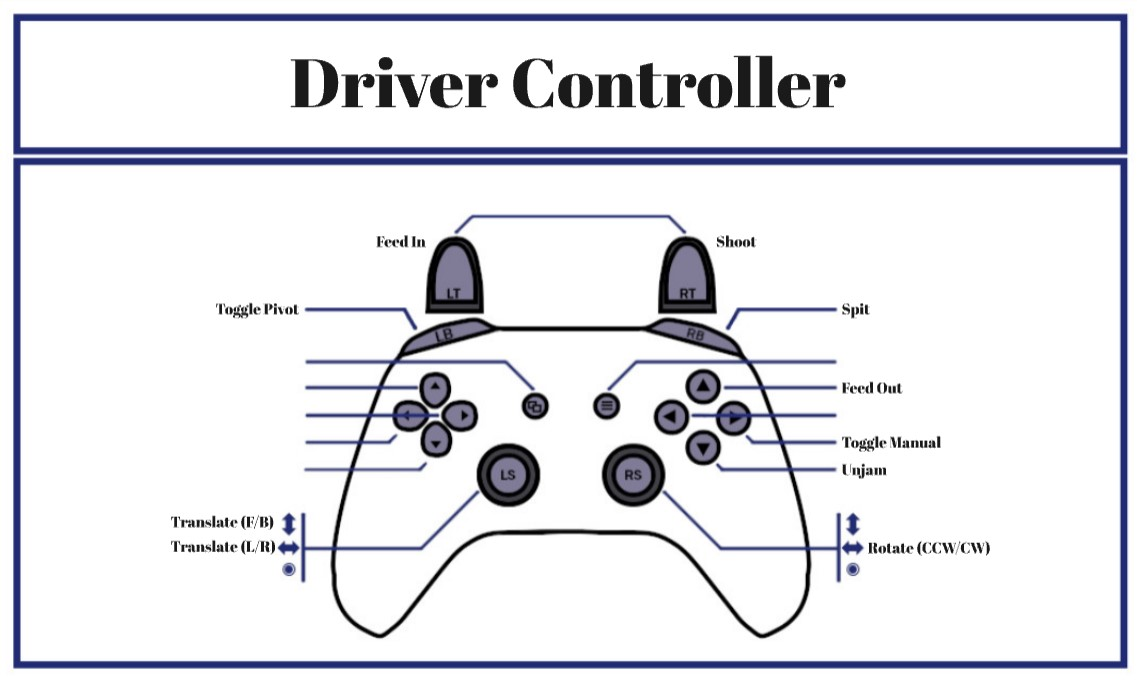
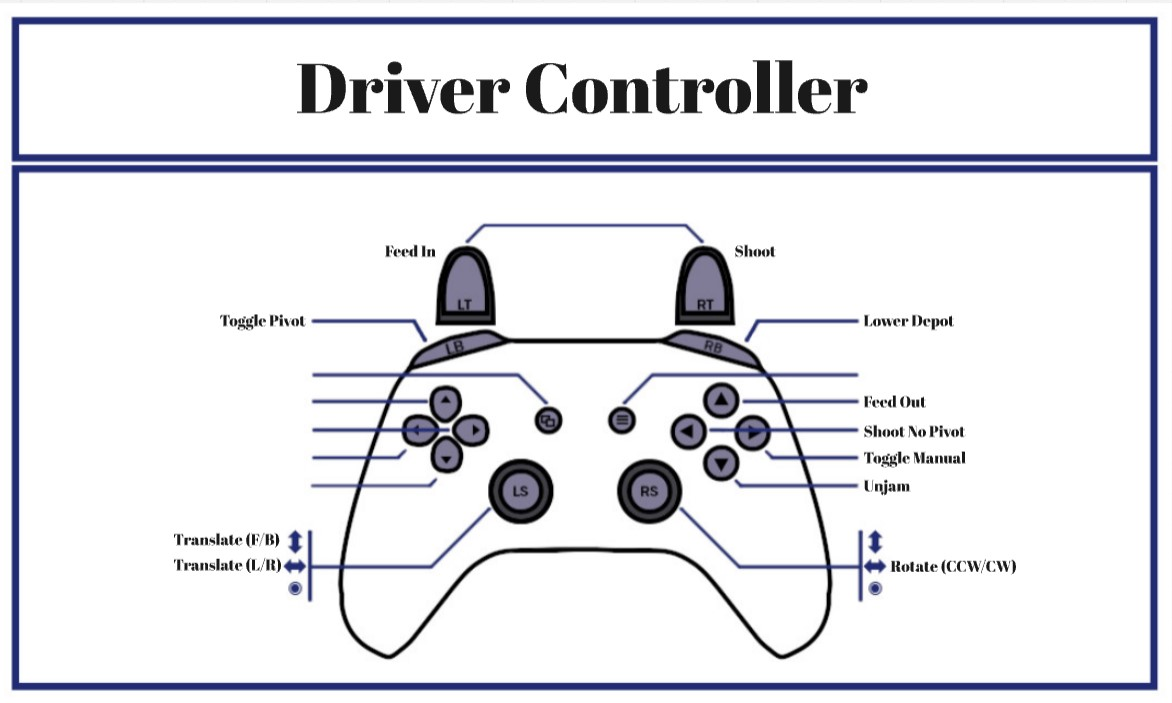
added depot intake pivot lower + shoot no intake pivot

Changed region(s): [[0.0, 0.0, 1.0, 0.9882]]

diff --git a/auto-generator/generator.ts b/auto-generator/generator.ts
@@ -52,11 +52,11 @@ function saveTrajectory(traj: Trajectory) : void {
 function generateTrajectory(traj: Trajectory) : void {
     exec(`${CHOREO_CLI} --chor ${CONFIG} --trajectory ${traj.name}.traj -g`, (error: Error | null, stdout: string, stderr: string) => {
         if (error) {
-            console.error("Choreo Error:", error);
+            console.error("choreo cli:", error);
             return;
         }
 
-        console.log("Choreo Output:");
+        console.log("choreo cli:");
         console.log(stdout);
     });
 }

diff --git a/src/main/java/frc/robot/Robot.java b/src/main/java/frc/robot/Robot.java
@@ -254,6 +254,32 @@ public class Robot extends TimedRobot {
     final InputStream baseVelOmega =
         InputStream.of(_driverController::getRightX).deadband(0.02, 1).negate().signedPow(2);
 
+    final Command shoot =
+        _superstructure.shoot(
+            baseVelX.scale(SwerveConstants.driverTranslationalShootingVelocity.in(MetersPerSecond)),
+            baseVelY.scale(SwerveConstants.driverTranslationalShootingVelocity.in(MetersPerSecond)),
+            true);
+
+    final Command shootManually =
+        _superstructure.shootManually(
+            baseVelX.scale(SwerveConstants.driverTranslationalShootingVelocity.in(MetersPerSecond)),
+            baseVelY.scale(SwerveConstants.driverTranslationalShootingVelocity.in(MetersPerSecond)),
+            baseVelOmega.scale(SwerveConstants.driverAngularVelocity.in(RadiansPerSecond)),
+            true);
+
+    final Command shootNoPivot =
+        _superstructure.shoot(
+            baseVelX.scale(SwerveConstants.driverTranslationalShootingVelocity.in(MetersPerSecond)),
+            baseVelY.scale(SwerveConstants.driverTranslationalShootingVelocity.in(MetersPerSecond)),
+            false);
+
+    final Command shootManuallyNoPivot =
+        _superstructure.shootManually(
+            baseVelX.scale(SwerveConstants.driverTranslationalShootingVelocity.in(MetersPerSecond)),
+            baseVelY.scale(SwerveConstants.driverTranslationalShootingVelocity.in(MetersPerSecond)),
+            baseVelOmega.scale(SwerveConstants.driverAngularVelocity.in(RadiansPerSecond)),
+            false);
+
     _swerve.setDefaultCommand(
         _swerve
             .drive(
@@ -262,20 +288,13 @@ public class Robot extends TimedRobot {
                 baseVelOmega.scale(SwerveConstants.driverAngularVelocity.in(RadiansPerSecond)))
             .beforeStarting(() -> _swerve.isOpenLoop = true));
 
-    final Command shoot =
-        _superstructure.shoot(
-            baseVelX.scale(SwerveConstants.driverTranslationalShootingVelocity.in(MetersPerSecond)),
-            baseVelY.scale(
-                SwerveConstants.driverTranslationalShootingVelocity.in(MetersPerSecond)));
-
-    final Command shootManually =
-        _superstructure.shootManually(
-            baseVelX.scale(SwerveConstants.driverTranslationalShootingVelocity.in(MetersPerSecond)),
-            baseVelY.scale(SwerveConstants.driverTranslationalShootingVelocity.in(MetersPerSecond)),
-            baseVelOmega.scale(SwerveConstants.driverAngularVelocity.in(RadiansPerSecond)));
-
     _driverController.rightTrigger().and(() -> !_shotParameters.isManual).whileTrue(shoot);
     _driverController.rightTrigger().and(() -> _shotParameters.isManual).whileTrue(shootManually);
+
+    _driverController
+        .rightBumper()
+        .onTrue(runOnce(() -> _intakePivot.lowerDepot = true))
+        .onFalse(runOnce(() -> _intakePivot.lowerDepot = false));
 
     _driverController.leftTrigger().whileTrue(_intakeFeed.feedIn());
 
@@ -288,6 +307,9 @@ public class Robot extends TimedRobot {
         .onTrue(runOnce(() -> _shotParameters.isManual = !_shotParameters.isManual));
 
     _driverController.a().whileTrue(_superstructure.unjam());
+
+    _driverController.x().and(() -> !_shotParameters.isManual).whileTrue(shootNoPivot);
+    _driverController.x().and(() -> _shotParameters.isManual).whileTrue(shootManuallyNoPivot);
   }
 
   /**

diff --git a/src/main/java/frc/robot/subsystems/intake/IntakePivot.java b/src/main/java/frc/robot/subsystems/intake/IntakePivot.java
@@ -50,6 +50,9 @@ public class IntakePivot extends AdvancedSubsystem {
   @Logged(name = "Lower Default")
   private boolean _lowerDefault = true;
 
+  @Logged(name = "Lower Depot")
+  public boolean lowerDepot = false;
+
   private final Supplier<ShotParameters> _shotParametersSupplier;
 
   private DCMotorSim _pivotSim;
@@ -193,7 +196,7 @@ public class IntakePivot extends AdvancedSubsystem {
     return _pivotAngleGetter.refresh().getValue();
   }
 
-  /** Toggles the lower default. */
+  /** Toggles the lower default, then schedules the default. */
   public Command toggleLowerDefault() {
     return runOnce(
         () -> {
@@ -239,12 +242,16 @@ public class IntakePivot extends AdvancedSubsystem {
         .withName("Raise Shooting");
   }
 
-  /** Lowers the intake. */
+  /**
+   * Lowers the intake. If {@link #lowerDepot} is true, the pivot will be lowered to the depot
+   * angle.
+   */
   public Command lower() {
     return run(() -> {
           _pivotMotor.setControl(
               _pivotAngleSetter
-                  .withPosition(IntakeConstants.pivotLowered)
+                  .withPosition(
+                      lowerDepot ? IntakeConstants.pivotLoweredDepot : IntakeConstants.pivotLowered)
                   .withVelocity(IntakeConstants.pivotVelocity)
                   .withAcceleration(IntakeConstants.pivotAcceleration));
         })

diff --git a/src/main/java/frc/robot/commands/Superstructure.java b/src/main/java/frc/robot/commands/Superstructure.java
@@ -42,11 +42,11 @@ public class Superstructure {
   }
 
   /** Shoots. */
-  public Command shoot(InputStream velX, InputStream velY) {
+  public Command shoot(InputStream velX, InputStream velY, boolean shouldPivot) {
     return parallel(
             _shooter.shoot(),
             _hopper.feedShot(),
-            _intakePivot.raiseShooting(),
+            shouldPivot ? _intakePivot.raiseShooting() : none(),
             _swerve.driveFacing(
                 velX,
                 velY,
@@ -57,11 +57,12 @@ public class Superstructure {
   /**
    * Shoot to use when {@link ShotParameters#isManual} is true. Gives the driver control over omega.
    */
-  public Command shootManually(InputStream velX, InputStream velY, InputStream velOmega) {
+  public Command shootManually(
+      InputStream velX, InputStream velY, InputStream velOmega, boolean shouldPivot) {
     return parallel(
             _shooter.shoot(),
             _hopper.feedShot(),
-            _intakePivot.raiseShooting(),
+            shouldPivot ? _intakePivot.raiseShooting() : none(),
             _swerve.drive(velX, velY, velOmega))
         .beforeStarting(
             () -> {

diff --git a/src/main/java/frc/robot/Constants.java b/src/main/java/frc/robot/Constants.java
@@ -309,6 +309,8 @@ public final class Constants {
     public static final Angle pivotRaised = Rotations.of(0.22);
     public static final Angle pivotLowered = Rotations.of(0.54);
 
+    public static final Angle pivotLoweredDepot = Rotations.of(0.5);
+
     public static final Angle pivotReverseSoftLimitThreshold = Rotations.of(0.17);
     public static final Angle pivotForwardSoftLimitThreshold = Rotations.of(0.59);
 

diff --git a/src/main/java/frc/robot/commands/Auto.java b/src/main/java/frc/robot/commands/Auto.java
@@ -127,7 +127,7 @@ public class Auto {
 
     _bindings.put(
         "shoot still",
-        () -> superstructure.shoot(InputStream.zero, InputStream.zero).withTimeout(3));
+        () -> superstructure.shoot(InputStream.zero, InputStream.zero, true).withTimeout(3));
 
     _bindings.put("pivot lower", intakePivot::lower);
 

diff --git a/README.md b/README.md
@@ -2,5 +2,18 @@
 [![CI](https://github.com/Team334/R2026/actions/workflows/main.yml/badge.svg)](https://github.com/Team334/R2026/actions/workflows/main.yml) <br>
 Robot code for the 2026 season.
 
-Controls
+## Controls
 ![Controls](controls.jpg)
+
+## Controller &rarr; Keyboard (Sim)
+ls y-/y+ &rarr; w/s
+<br>ls x-/x+ &rarr; a/d
+<br>rs x-/x+ &rarr; larr/rarr
+<br><br>rt &rarr; k
+<br>rb &rarr; l
+<br>lt &rarr; h
+<br>lb &rarr; j
+<br><br>y &rarr; z
+<br>b &rarr; x
+<br>a &rarr; c
+<br>x &rarr; v
